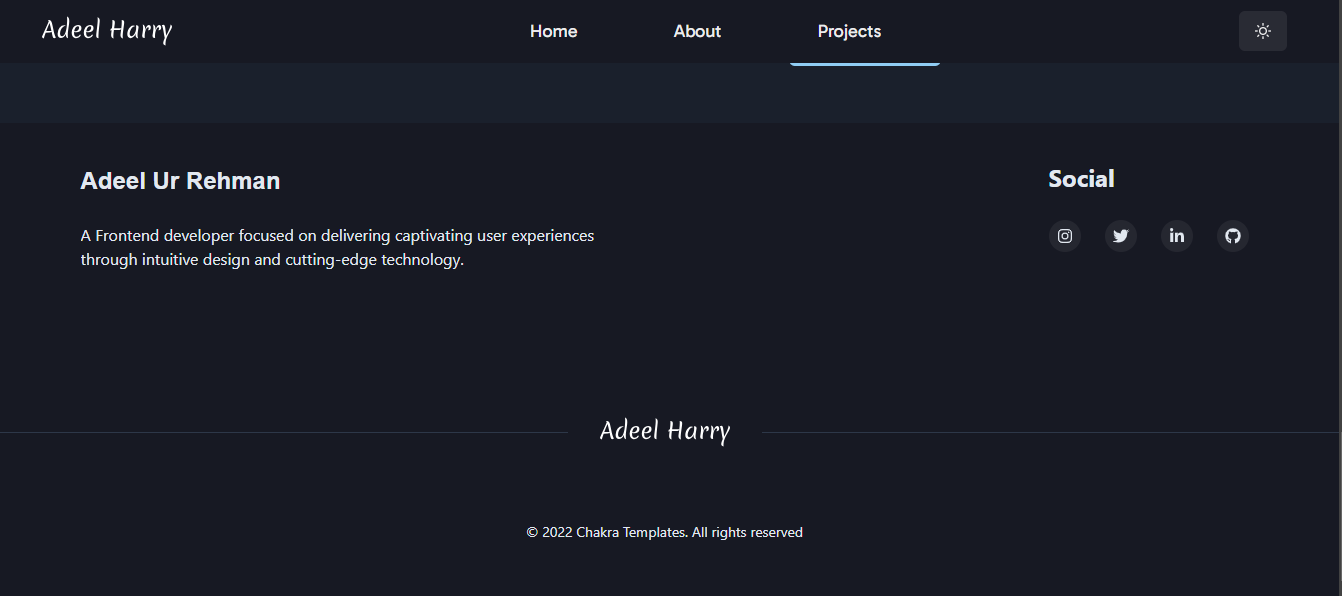
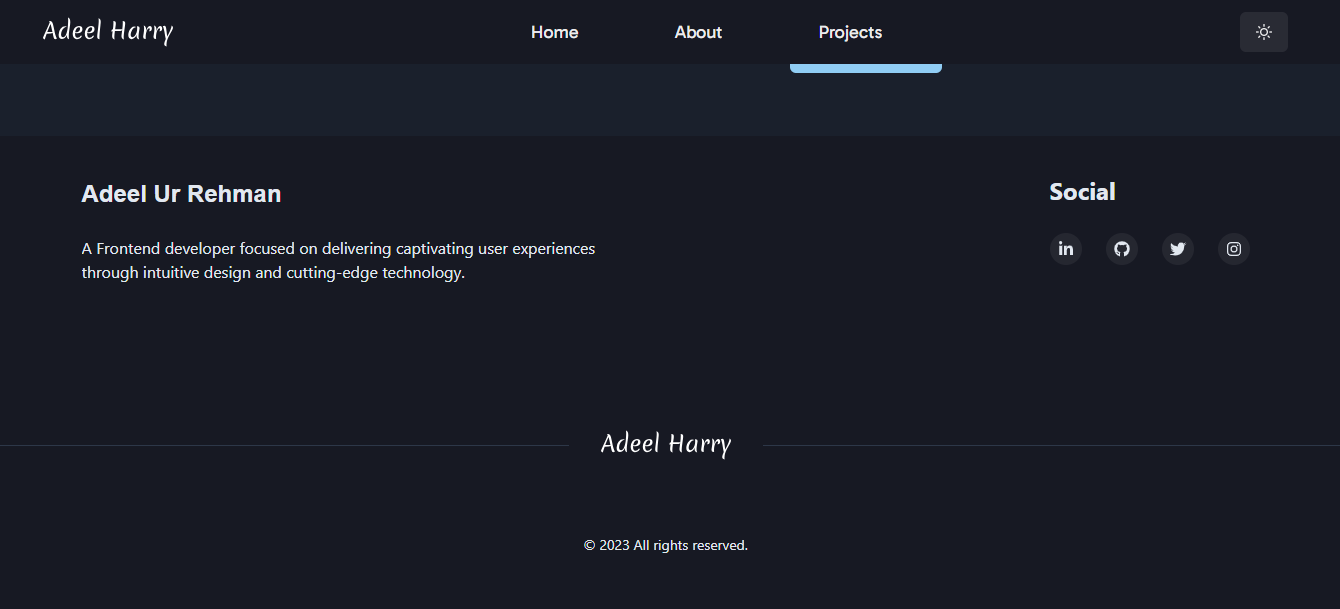
Changed Footer Credits

diff --git a/src/components/Footer/Footer.tsx b/src/components/Footer/Footer.tsx
@@ -30,7 +30,7 @@ export default function LargeWithLogoCentered() {
         </Flex>
       </Container>
       <FooterCredits imgSrcD={logob} imgSrcL={logow}>
-        © 2022 Chakra Templates. All rights reserved
+        © 2023 All rights reserved.
       </FooterCredits>
     </Box>
   );
